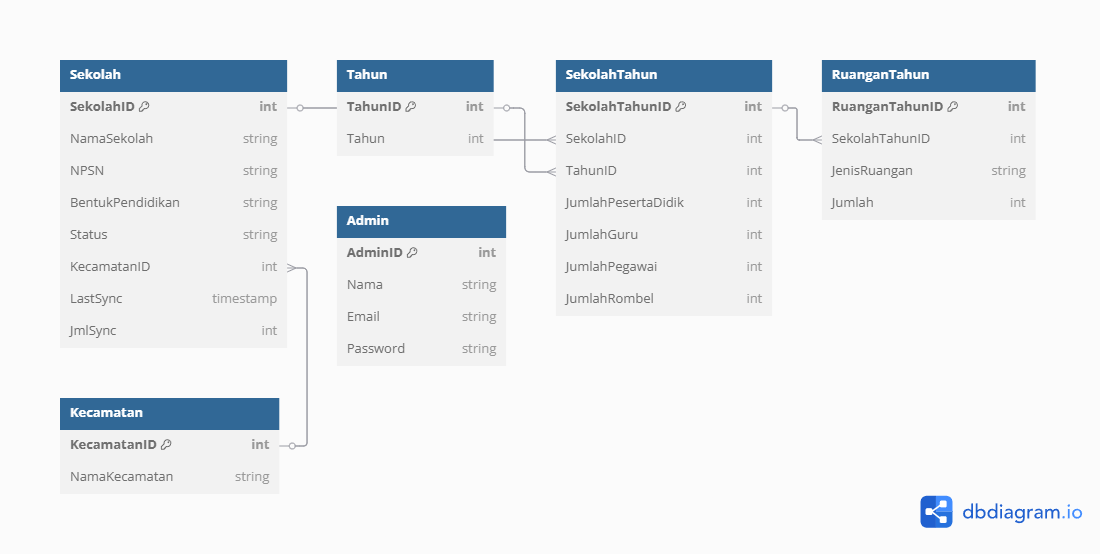
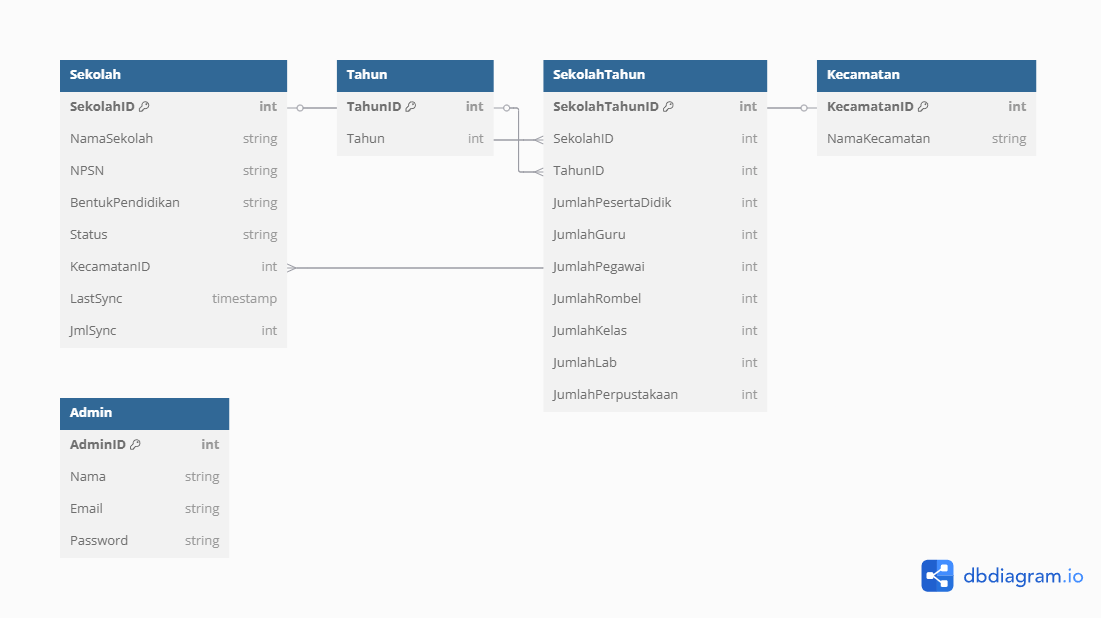
feat: update model and migration to have ruangan on sekolah_tahun model

diff --git a/database/seeders/SekolahSeeder.php b/database/seeders/SekolahSeeder.php
@@ -5,9 +5,8 @@ namespace Database\Seeders;
 use Illuminate\Database\Seeder;
 use App\Models\Sekolah;
 use App\Models\Kecamatan;
-use App\Models\RuanganTahun;
 use App\Models\SekolahTahun;
-use App\Models\Tahun; // Ensure Tahun model is imported
+use App\Models\Tahun;
 use PhpOffice\PhpSpreadsheet\IOFactory;
 use Carbon\Carbon;
 use Illuminate\Support\Facades\Storage;
@@ -44,6 +43,9 @@ class SekolahSeeder extends Seeder
                     $jumlahRombel = (int) ($row['I'] ?? 0);
                     $jumlahGuru = (int) ($row['J'] ?? 0);
                     $jumlahPegawai = (int) ($row['K'] ?? 0);
+                    $jumlahKelas = (int) ($row['L'] ?? 0); // New column
+                    $jumlahLab = (int) ($row['M'] ?? 0); // New column
+                    $jumlahPerpustakaan = (int) ($row['N'] ?? 0); // New column
                     $tahunValue = (int) ($row['O'] ?? 0);
                     $namaKecamatan = trim($row['P'] ?? '');
 
@@ -101,35 +103,19 @@ class SekolahSeeder extends Seeder
                         continue;
                     }
 
-                    // Find or create SekolahTahun using tahun_id
-                    $sekolahTahun = SekolahTahun::updateOrCreate(
-                        ['sekolah_id' => $sekolah->id, 'tahun_id' => $tahun->id], // Use tahun_id reference
+                    // Update SekolahTahun with new fields
+                    SekolahTahun::updateOrCreate(
+                        ['sekolah_id' => $sekolah->id, 'tahun_id' => $tahun->id],
                         [
-                            'jml_peserta_didik' => $jumlahPesertaDidik,
-                            'jml_guru'         => $jumlahGuru,
-                            'jml_pegawai'      => $jumlahPegawai,
-                            'jml_rombel'       => $jumlahRombel,
+                            'jml_peserta_didik'  => $jumlahPesertaDidik,
+                            'jml_guru'           => $jumlahGuru,
+                            'jml_pegawai'        => $jumlahPegawai,
+                            'jml_rombel'         => $jumlahRombel,
+                            'jml_kelas'          => $jumlahKelas,  // Added
+                            'jml_lab'            => $jumlahLab,  // Added
+                            'jml_perpustakaan'   => $jumlahPerpustakaan,  // Added
                         ]
                     );
-
-                    // Room types mapping
-                    $ruanganTypes = [
-                        'L' => ['jenis' => 'Kelas'],
-                        'M' => ['jenis' => 'Lab'],
-                        'N' => ['jenis' => 'Perpustakaan']
-                    ];
-
-                    foreach ($ruanganTypes as $column => $data) {
-                        $jumlah = (int) ($row[$column] ?? 0);
-                        if ($jumlah > 0) {
-                            RuanganTahun::create([
-                                'sekolah_id' => $sekolah->id,
-                                'tahun_id' => $tahun->id,
-                                'jenis_ruangan'    => $data['jenis'],
-                                'jumlah'          => $jumlah,
-                            ]);
-                        }
-                    }
                 } catch (\Exception $e) {
                     dump("❌ Error in row {$index}: {$e->getMessage()}");
                     $hasError = true;

diff --git a/database/migrations/2025_02_16_040947_create_sekolah_tahuns_table.php b/database/migrations/2025_02_16_040947_create_sekolah_tahuns_table.php
@@ -10,11 +10,14 @@ return new class extends Migration {
         Schema::create('sekolah_tahun', function (Blueprint $table) {
             $table->id('id');
             $table->foreignId('sekolah_id')->constrained('sekolah')->onDelete('cascade');
-            $table->foreignId('tahun_id')->constrained('tahun')->onDelete('cascade'); // Updated
+            $table->foreignId('tahun_id')->constrained('tahun')->onDelete('cascade');
             $table->integer('jml_peserta_didik')->default(0);
             $table->integer('jml_guru')->default(0);
             $table->integer('jml_pegawai')->default(0);
             $table->integer('jml_rombel')->default(0);
+            $table->integer('jml_kelas')->default(0); // Added
+            $table->integer('jml_lab')->default(0);   // Added
+            $table->integer('jml_perpustakaan')->default(0); // Added
             $table->timestamps();
         });
     }

diff --git a/app/Models/SekolahTahun.php b/app/Models/SekolahTahun.php
@@ -14,11 +14,14 @@ class SekolahTahun extends Model
 
     protected $fillable = [
         'sekolah_id',
-        'tahun_id', // Updated
+        'tahun_id',
         'jml_peserta_didik',
         'jml_guru',
         'jml_pegawai',
-        'jml_rombel'
+        'jml_rombel',
+        'jml_kelas',         // Added
+        'jml_lab',           // Added
+        'jml_perpustakaan'   // Added
     ];
 
     public function sekolah()
@@ -30,5 +33,4 @@ class SekolahTahun extends Model
     {
         return $this->belongsTo(Tahun::class, 'tahun_id');
     }
-    
 }
